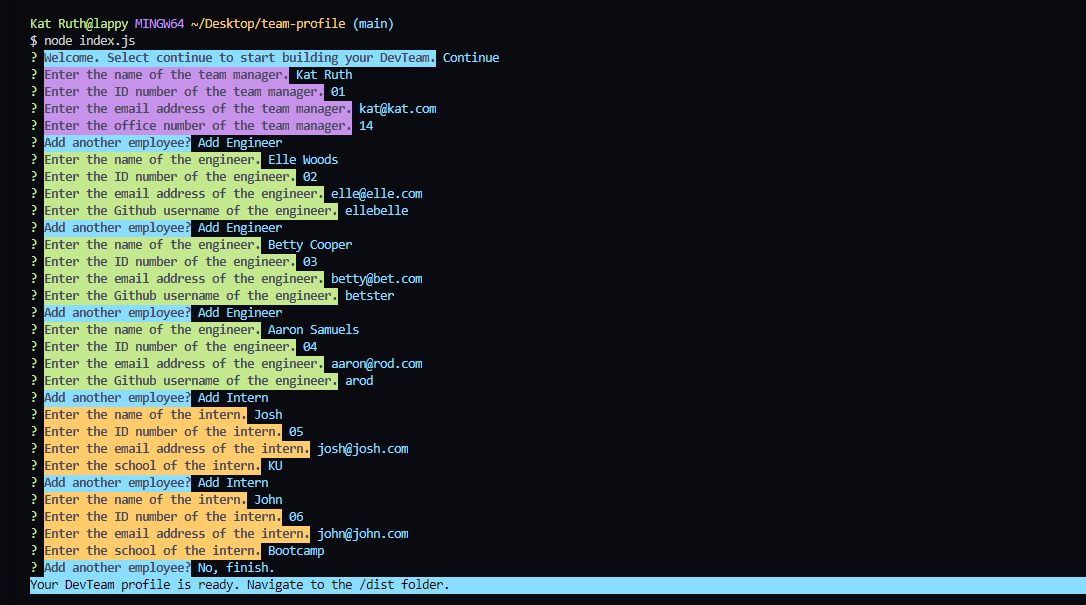
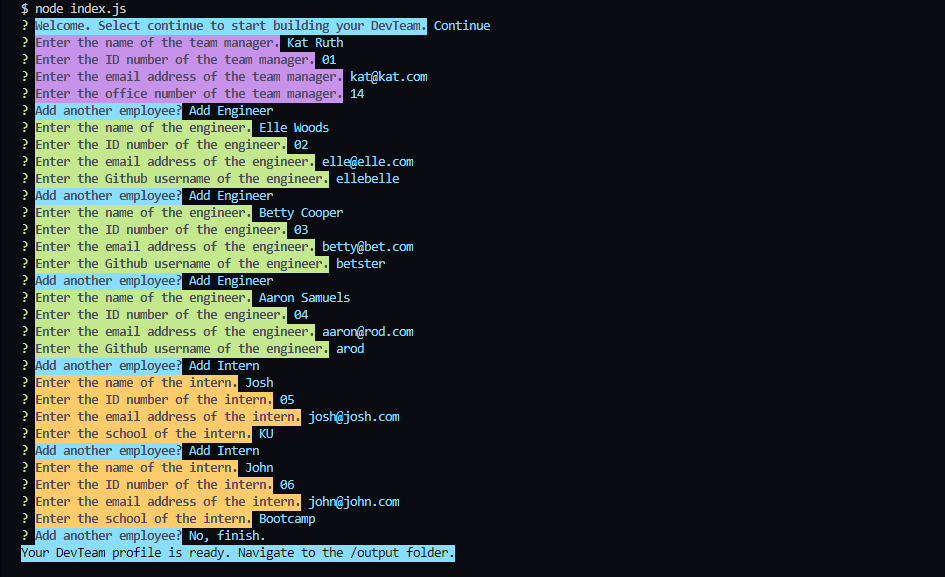
readme + visuals reflect changes

Changed region(s): [[0.0, 0.0, 1.0, 0.9983]]

diff --git a/README.md b/README.md
@@ -26,7 +26,7 @@ Keep track of your development team's contact information using this clean color
 ### :movie_camera: [This video](https://vimeo.com/515063802) demonstrates the full functionality and testing of this app.
 - The application begins with a Start menu. Select `'Continue'` to trigger the Inquirer prompts and begin adding the information for the `Team Manager`.
 - You will then be prompted to `'Add another employee?'` to which you can either choose to `'Add Engineer'` or `'Add Intern,'` or opt to `'No, finish.'`
-- When you are finished adding employees and choose `'No, finish.'` a message displays in the command line pointing you to the `/dist` folder.
+- When you are finished adding employees and choose `'No, finish.'` a message displays in the command line pointing you to the `/output` folder.
 - This is where your output `index.html` and `style.css` files will be! :star:
 
 ## *Screenshots*
